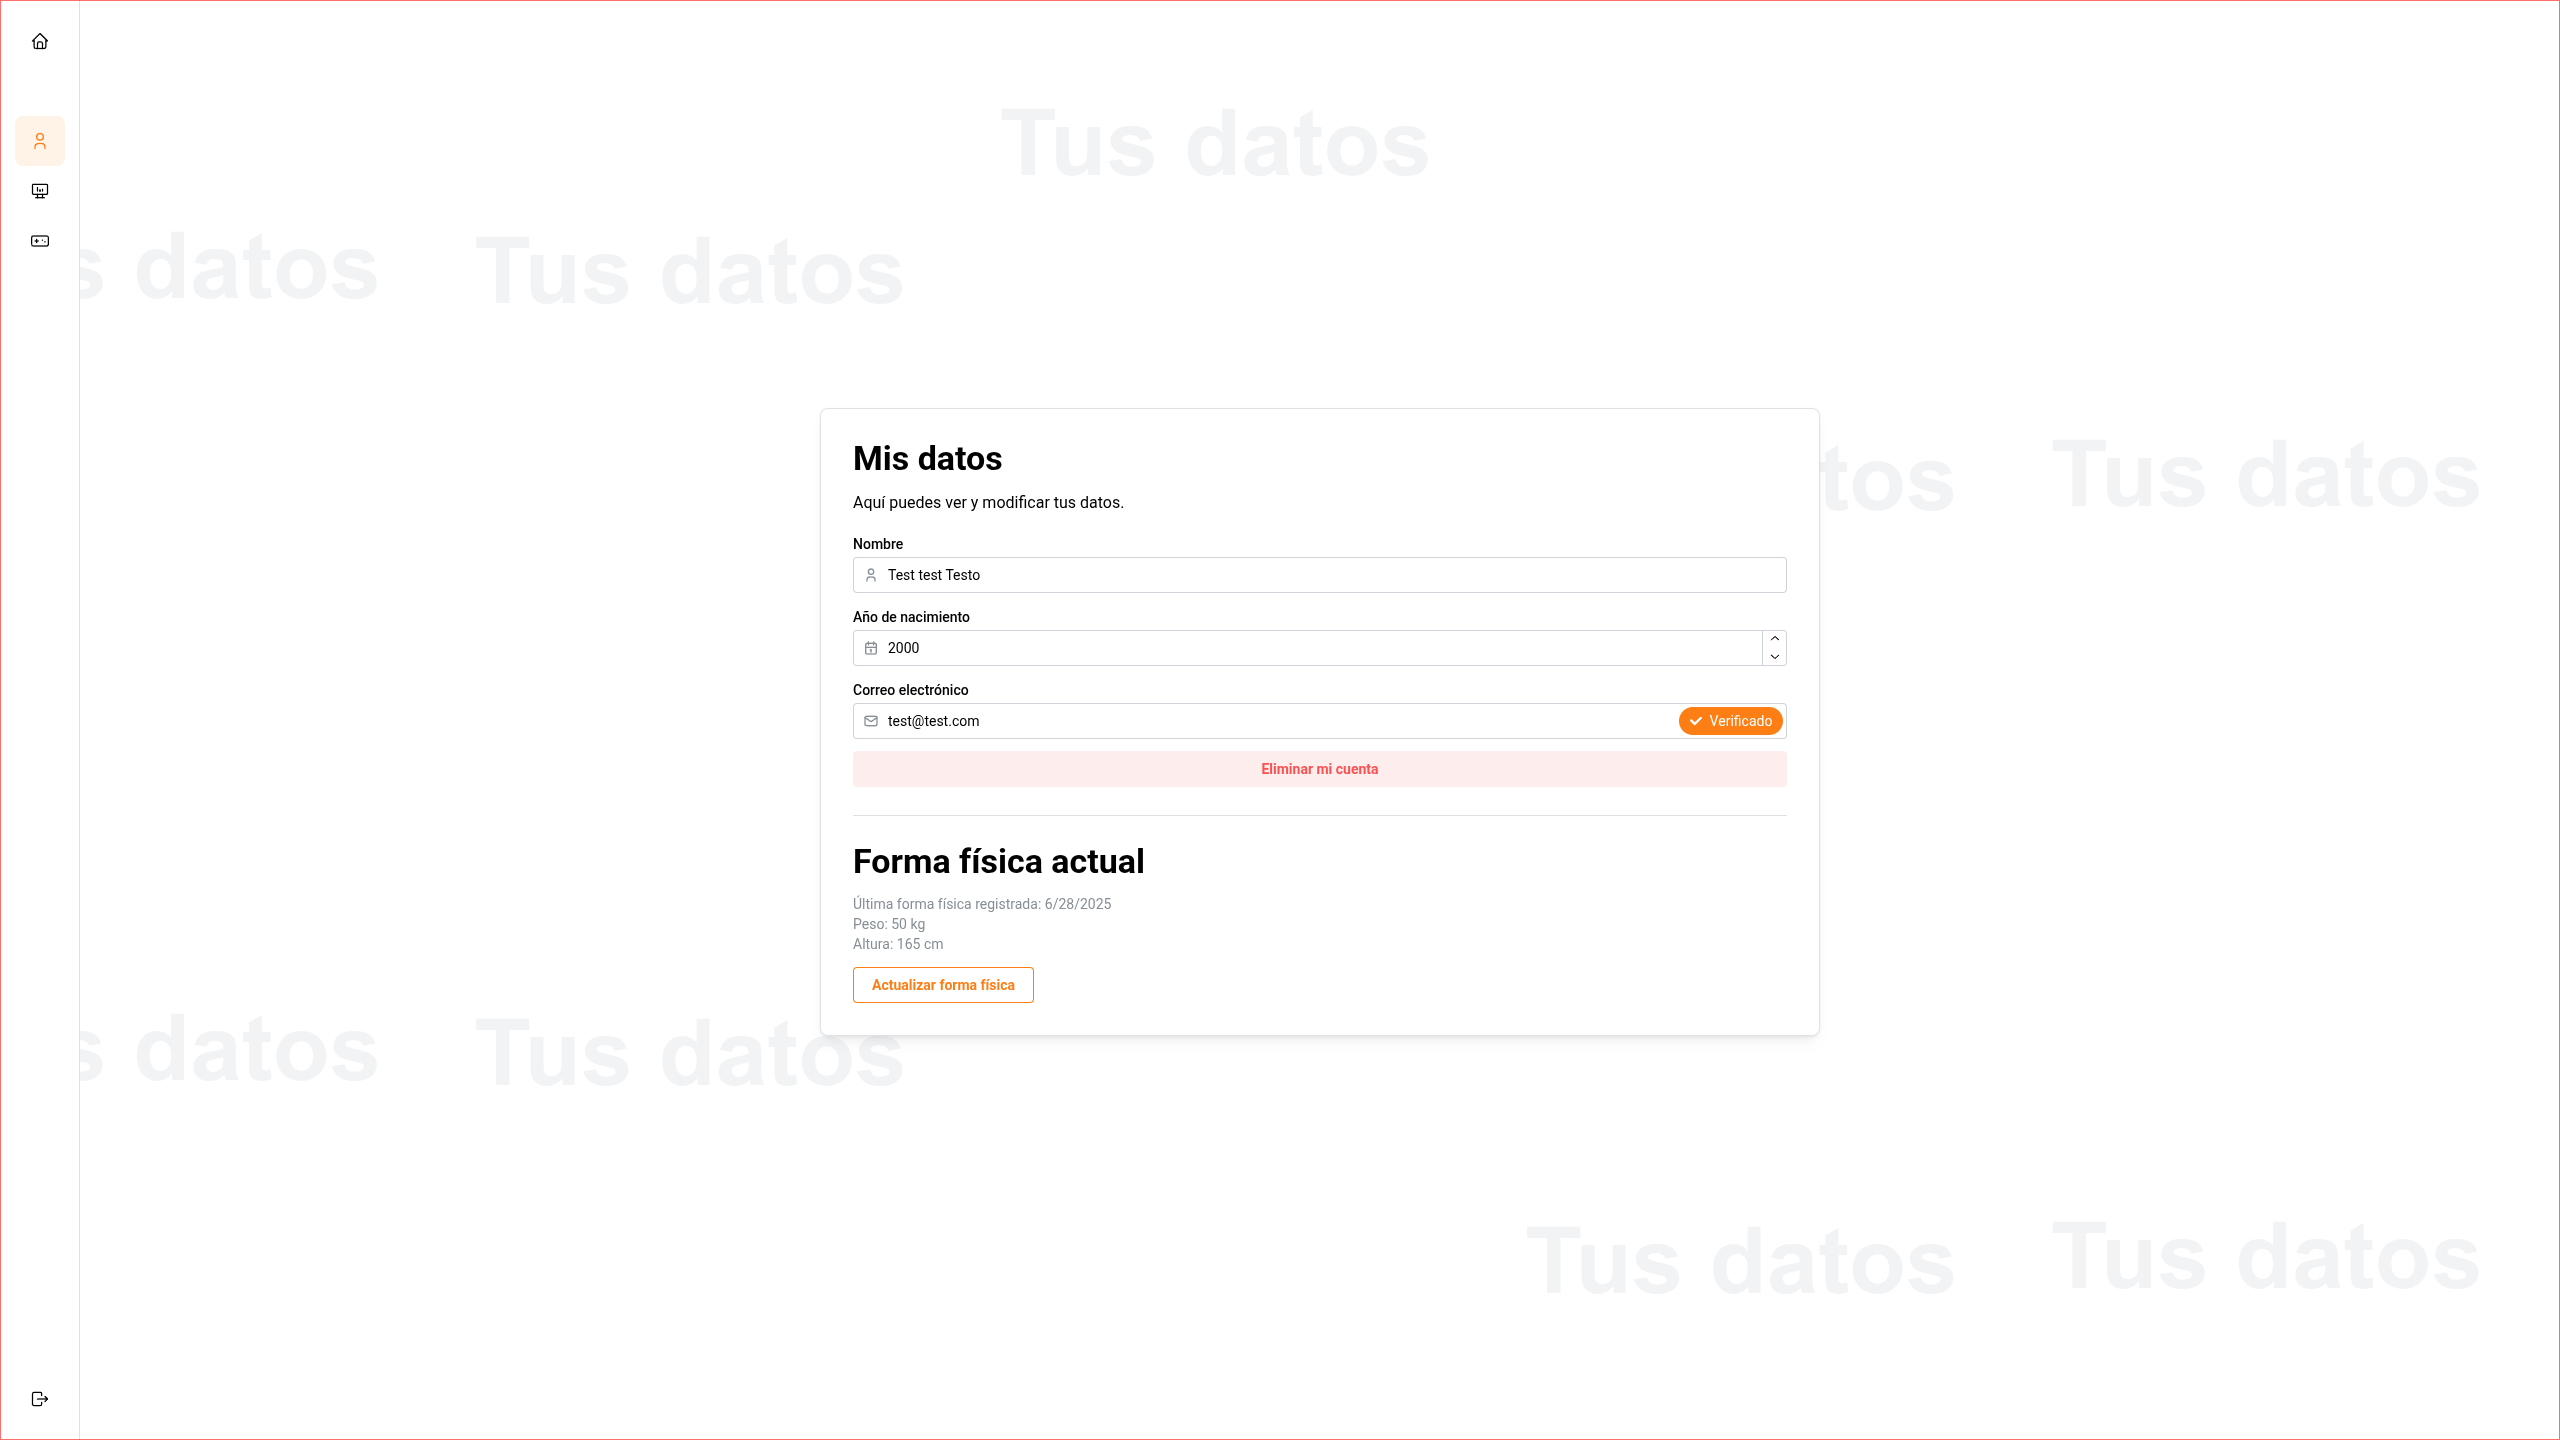
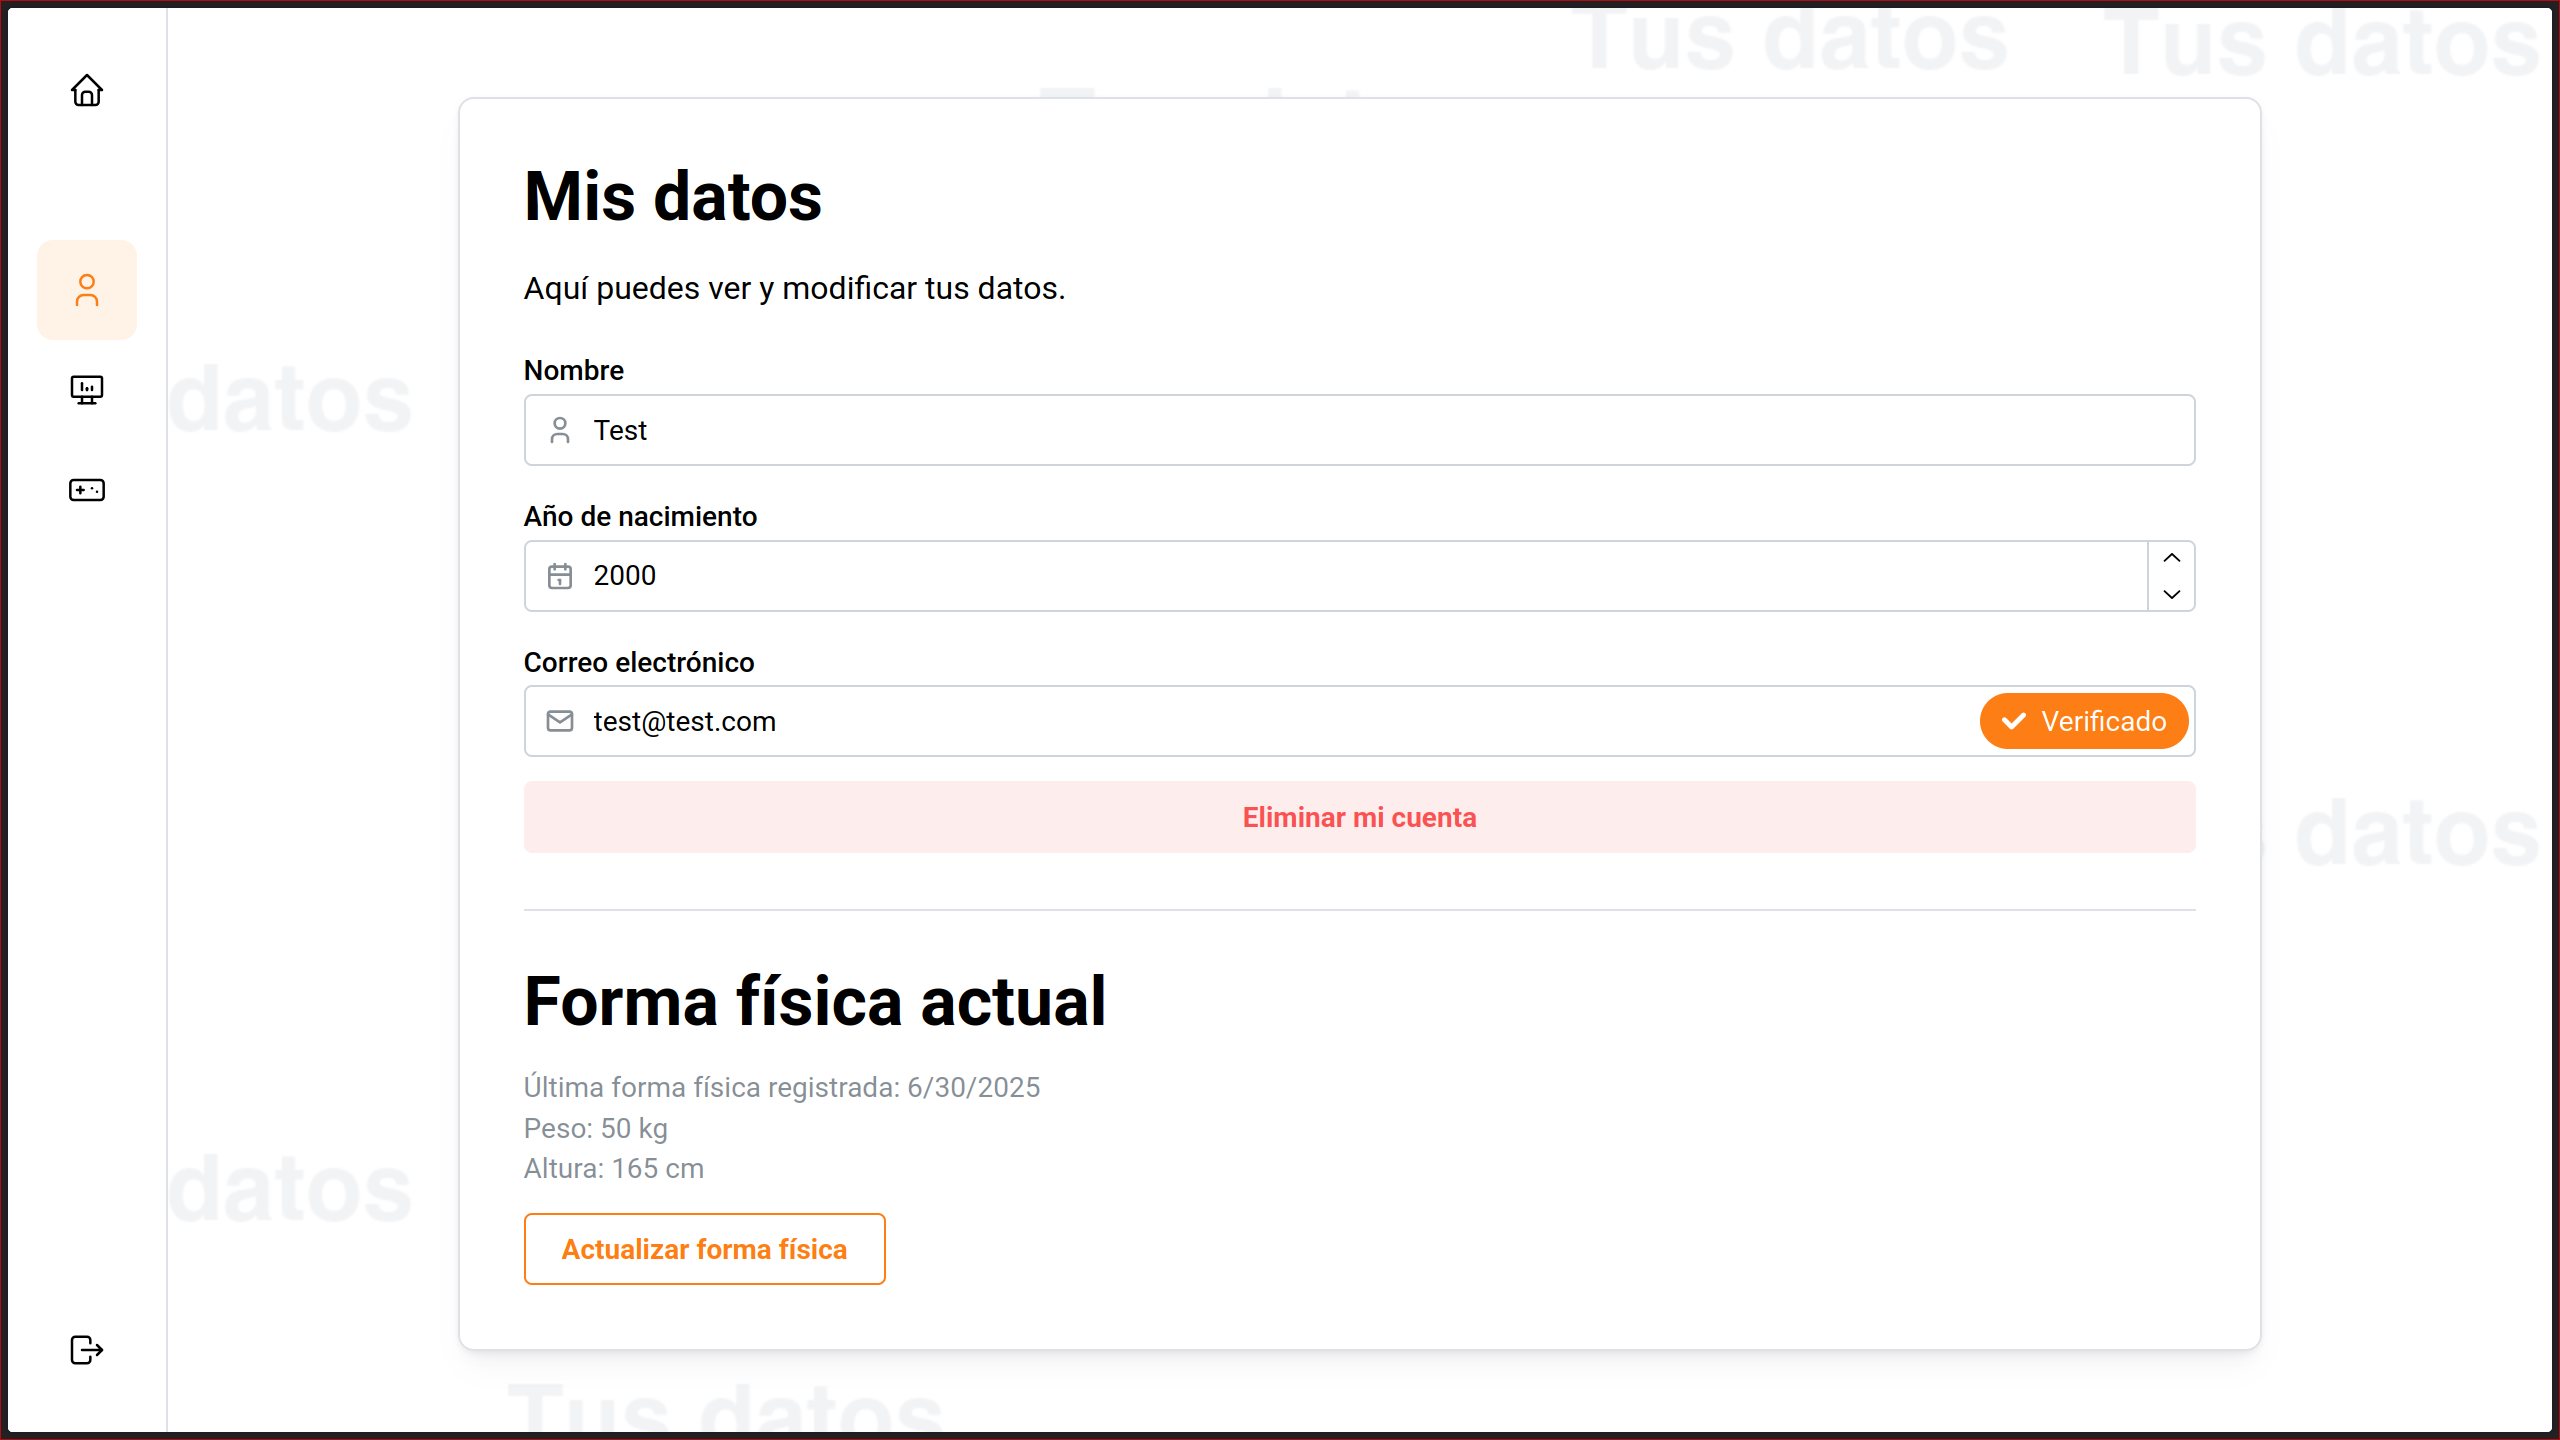
pruebas de usuarios en métricas

diff --git a/docs/memoria/c05-normas.tex b/docs/memoria/c05-normas.tex
@@ -238,3 +238,47 @@ medir el rendimiento del videojuego una vez exportado (ver \ref{fig:chrome-perfo
     etiqueta = {fig:chrome-performance},
     width = 1\textwidth,
 }
+
+Otro tipo de métricas utilizadas han sido tests de usuarios. Aunque de manera bastante informal, a
+lo largo del desarrollo del proyecto se han realizado pruebas con usuarios reales\footnotemark para
+evaluar la usabilidad de la aplicación y detectar posibles problemas o mejoras. Cuando se
+realizaban cambios significativos en la interfaz, se solicitaba a varios usuarios que probaran
+la aplicación y se les pedía su opinión sobre la usabilidad, la facilidad de uso y la estética del
+sistema en general. A partir de estas interacciones se han ido realizando los cambios que se
+consideraban oportunos para mejorar la experiencia de usuario.
+
+\footnotetext{Muchas gracias a mis compañeros de piso y amigos, especialmente a \textit{Encarna} y
+\textit{Pablo} por criticar el diseño de mi interfaz innumerables veces.}
+
+Puesto que para cada una de estas pruebas se ha tomado nota de las opiniones de los usuarios y
+se está utilizando Git como sistema de control de versiones, se puede consultar una de estas
+iteraciones como ejemplo. En la figura \ref{fig:interfaz-vieja} se puede ver el aspecto de la
+página de datos del usuario antes de realizar los cambios.
+
+\diagrama{
+    nombre = {Página de datos de usuario en la commit ebc3259},
+    archivo = {memoria/fotos/capturas/datosviejo.png},
+    etiqueta = {fig:interfaz-vieja},
+    width = 1\textwidth,
+}
+
+De esta página en concreto se recibieron varias críticas, la principal queja siendo que había
+mucho espacio vacío y que la información no estaba bien organizada (en las capturas de pantalla
+se está usando una magnificación del 200\%). También se criticó que la sección que informa sobre
+la forma física actual era difícil de leer y que la barra lateral de navegación era demasiado
+gruesa.
+
+Tras recibir estas críticas se realizaron varios cambios en la interfaz, como centrar el contenido
+de la página, reducir el tamaño de la barra lateral de navegación y reorganizar la información
+para que fuera más fácil de leer. También se añadió un efecto en el fondo de la página que indica
+la sección actual para reducir el espacio vacío y hacer la interfaz más atractiva. El resultado
+de estos cambios se puede ver en la figura \ref{fig:interfaz-actual}.
+
+\diagrama{
+    nombre = {Página de datos de usuario actualmente},
+    archivo = {memoria/fotos/capturas/datosconforma.png},
+    etiqueta = {fig:interfaz-actual},
+    width = 1\textwidth,
+}
+
+

diff --git a/docs/anexo2/c02-analisis.tex b/docs/anexo2/c02-analisis.tex
@@ -1,5 +1,9 @@
 \chapter{Análisis del sistema}
 \label{anexo2:cap:analisis}
+En este capítulo se presenta el análisis del sistema, que incluye tanto el modelo del dominio como
+el diagrama de clases del análisis. El objetivo de este análisis es proporcionar una visión general
+del sistema y sus componentes, así como las relaciones entre ellos sin entrar en detalles específicos
+como las tecnologías que utilizar o la implementación interna de los sistemas.
 
 \section{Modelo del dominio}
 \label{anexo2:sec:modelo-dominio}
